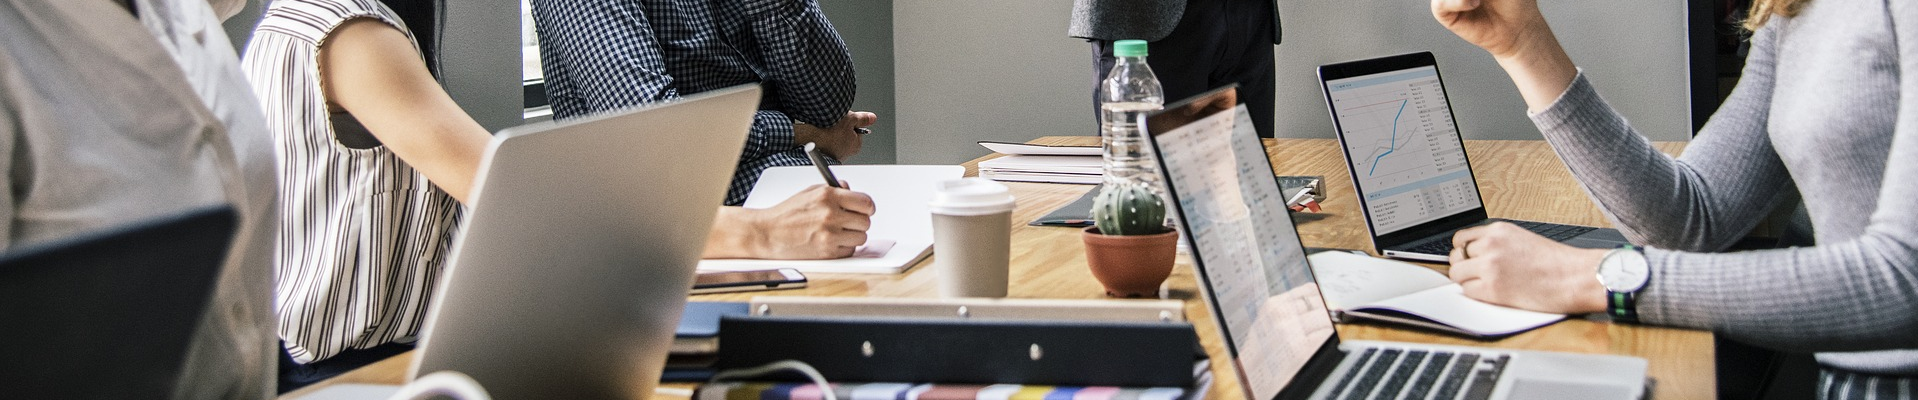
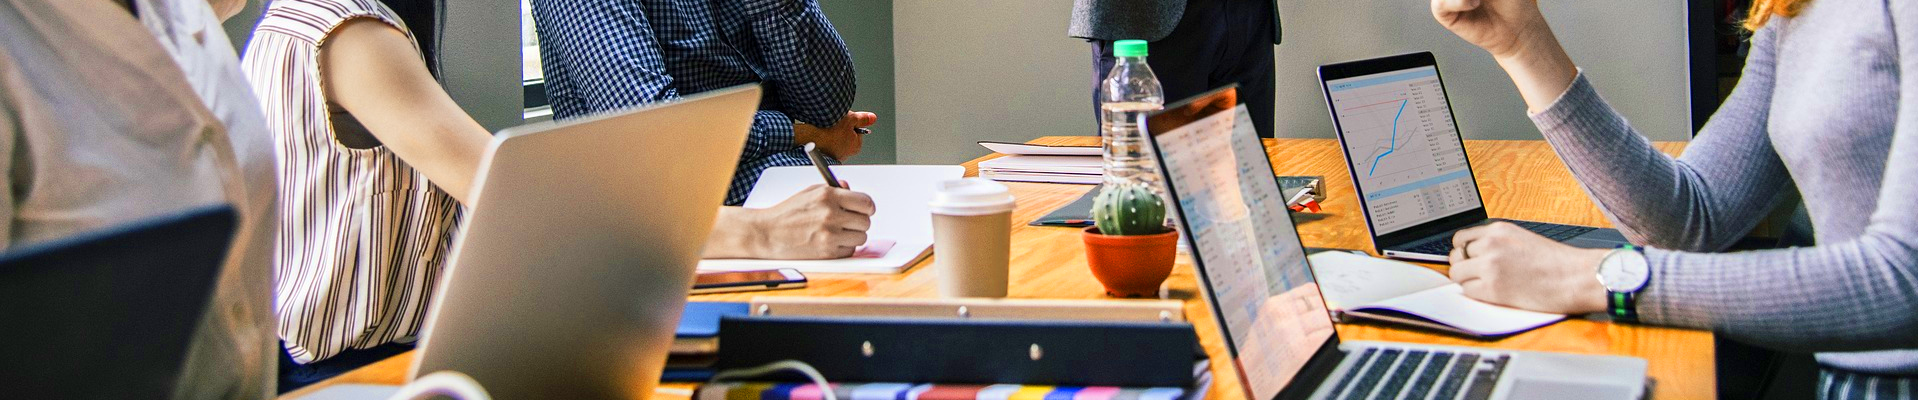
会社概要ページ上部修正・ぷろくま紹介ページ作成・ポリシーボタン修正・社員の声修正・画像修整

diff --git a/wp-content/themes/hokushinTheme_new/test.html b/wp-content/themes/hokushinTheme_new/test.html
@@ -132,24 +132,22 @@
                                 <img src="http://hokushinsystem.local/wp-content/uploads/2019/07/phi-img.png" alt="" width="70%"></div>
                         </div>
                     </article>
-                    <article id="home-pol" class="text-center mt-5 row justify-content-center">
-                        <a href="http://hokushinsystem.local/security-policy" class="hs-a m-1 col-12 col-md-5">セキュリティポリシー</a><a href="http://hokushinsystem.local/privacy-policy" class="hs-a m-1 col-12 col-md-5">プライバシーポリシー</a>
+                    <article id="home-pol" class="row text-center justify-content-center" style="margin-top: 20%">
+                        <a href="http://hokushinsystem.local/security-policy" class="hs-a m-1 col-8 col-md-4">セキュリティポリシー</a><a href="http://hokushinsystem.local/privacy-policy" class="hs-a m-1 col-8 col-md-4">プライバシーポリシー</a>
                     </article>
-
                     <a data-toggle="modal" data-target="#purokuma-modal" rel="noopener noreferrer">
                         <div id="footer-purokuma" style="cursor: grab"></div>
                     </a>
                 </div>
             </div>
-
-            <!-- modal -->
+            <!-- modal1 -->
             <div class="modal fade" id="purokuma-modal" tabindex="-1" role="dialog" aria-labelledby="modal01-label" style="display: none;" aria-hidden="true">
                 <div class="modal-dialog modal-dialog-centered" role="document">
                     <div class="modal-content" style="background-color: #fff">
                         <div class="modal-header hs-recruit-modal-header">
-                            <h3 class="modal-title" id="modal01-label font-weight-bold text-center">「ぷろくま」について</h3>
-                            <div id="footer-purokuma"></div>
+                            <div class="hs-phi-modal-purokuma"></div>
                             <button type="button" class="close" data-dismiss="modal" aria-label="Close"><span aria-hidden="true">×</span></button>
+
                         </div>
                         <div class="modal-body text-center">
                             <p class="m-0" style="color: #005c00">プログラミングをする「ぷろ」</p>
@@ -162,40 +160,23 @@
                                 <p class="m-0">「ぷろくま」は、</p>
                                 <p class="m-0">社員のいるところをいつも徘徊し、見守り続ける</p>
                                 <p class="m-0">ホクシンシステムのマスコットキャラクターです</p>
-                            </div>
 
+                            </div>
                             <div class="mt-4 mb-4">
-                                <a data-toggle="modal" data-target="#linestump-modal" rel="noopener noreferrer" class="hs-a" style="color: indigo; border-bottom: 1px indigo solid">「ぷろくま」LINEスタンプはこちら</a>
-                            </div>
-
+                                <a data-toggle="modal" data-target="#linestump-modal" rel="noopener noreferrer" class="hs-a" style="color: indigo;">「ぷろくま」LINEスタンプはこちら</a></div>
                         </div>
                     </div>
                 </div>
             </div>
-
-            <!-- modal -->
+            <!-- modal2 -->
             <div class="modal fade" id="linestump-modal" tabindex="-1" role="dialog" aria-labelledby="modal01-label" style="display: none;" aria-hidden="true">
-                <div class="modal-dialog modal-dialog-centered" role="document">
+                <div class="modal-dialog modal-dialog-centered modal-lg" role="document">
                     <div class="modal-content" style="background-color: #fff">
                         <div class="modal-header hs-recruit-modal-header">
-                            <h3 class="modal-title" id="modal01-label font-weight-bold text-center">「ぷろくま」について</h3>
-                            <div id="footer-purokuma"></div>
-                            <button type="button" class="close" data-dismiss="modal" aria-label="Close"><span aria-hidden="true">×</span></button>
-                        </div>
-                        <div class="modal-body text-center">
-                            <p class="m-0" style="color: #005c00">プログラミングをする「ぷろ」</p>
-                            <p class="m-0" style="color: #005c00">IT業界のプロフェッショナルの「ぷろ」</p>
-                            <p class="m-0" style="color: #005c00">北海道を象徴する動物である「くま」</p>
-                            <p class="m-0" style="color: #005c00">代表取締役　熊谷の「くま」</p>
-                            <p class="m-0" style="color: #005c00">プーさんのように愛される「くま」</p>
-
-                            <div class="mt-4">
-                                <p class="m-0">「ぷろくま」は、</p>
-                                <p class="m-0">社員のいるところをいつも徘徊し、見守り続ける</p>
-                                <p class="m-0">ホクシンシステムのマスコットキャラクターです</p>
-                            </div>
-
-
+                            <button type="button" class="close" data-dismiss="modal" aria-label="Close"><span aria-hidden="true">×</span></button></div>
+                        <div class="modal-body text-center mb-5">
+                            <!-- Image Map Generated by http://www.image-map.net/ -->
+                            <img src="http://hokushinsystem.local/wp-content/uploads/2019/08/line-stump.png" class="w-100">
 
                         </div>
                     </div>

diff --git a/wp-content/themes/hokushinTheme_new/test4.html b/wp-content/themes/hokushinTheme_new/test4.html
@@ -33,20 +33,7 @@
     <script src="jQuery_341.js"></script>
 
     <style>
-        .hs-ticker {
-            height: 40px;
-            overflow: hidden;
-            /* margin: 60px 0 0 35px; */
-            padding: 0;
-            list-style: none;
-            font-size: 25px;
-        }
-        
-        .hs-ticker li {
-            height: 60px;
-            padding: 5px;
-            margin: 0px 5px;
-        }
+
     </style>
 
     <script>
@@ -64,9 +51,7 @@
 
 <body>
 
-    <div class="page-content-image page-content-company"></div>
-
-
+    <div class="page-content-image page-content-company mb-4"></div>
     <section style="background: #5a3c96; color: #fff">
         <div style="margin: 0 auto;" class="row w-980 hs-about-news ">
             <h4 class="col-2 pt-1 mr-2">NEWS</h4>
@@ -80,8 +65,6 @@
             </ul>
         </div>
     </section>
-
-
     <!-- modal -->
     <div class="modal fade" id="about-modal" tabindex="-1" role="dialog" aria-labelledby="modal01-label" style="display: none;" aria-hidden="true">
         <div class="modal-dialog modal-dialog-centered" role="document">
@@ -89,6 +72,7 @@
                 <div class="modal-header hs-recruit-modal-header">
                     <h3 class="modal-title" id="modal01-label font-weight-bold text-center">NEWS</h3>
                     <button type="button" class="close" data-dismiss="modal" aria-label="Close"><span aria-hidden="true">×</span></button>
+
                 </div>
                 <div class="modal-body">
                     <ul>
@@ -97,35 +81,29 @@
                         <li class="pt-4" style="border-bottom: 1px #444 dotted">
                             2019.06.01　プライバシーマーク取得</li>
                         <li class="pt-4" style="border-bottom: 1px #444 dotted">
-                            2019.06.01　有料職業紹介業許可証が交付されました
-                        </li>
+                            2019.06.01　有料職業紹介業許可証が交付されました</li>
                         <li class="pt-4" style="border-bottom: 1px #444 dotted">
-                            2019.06.01　労働者派遣事業許可証が交付されました
-                        </li>
+                            2019.06.01　労働者派遣事業許可証が交付されました</li>
                         <li class="pt-4" style="border-bottom: 1px #444 dotted">
-                            2019.06.01　資本金を増額
-                        </li>
+                            2019.06.01　資本金を増額</li>
                         <li class="pt-4" style="border-bottom: 1px #444 dotted">
-                            2019.06.01　会社設立
-                        </li>
+                            2019.06.01　会社設立</li>
                     </ul>
                     <div id="footer-purokuma"></div>
                 </div>
             </div>
         </div>
     </div>
-
-
-    <div class="page-contenet content-out-box w-max">
+    <div class="page-contenet content-out-box w-max" style="padding-top: 2em;">
         <div class="content-inner-box w-980 row w-100" style="margin: 0 auto !important;">
-            <h1 class="page-main-title col-12 col-sm-3 m-0"><span class="page-title-en">Company</span><br>会社概要</h1>
-
+            <h1 class="page-main-title col-12 col-sm-3 m-0"><span class="page-title-en">Company</span> 会社概要
+            </h1>
             <!-- *勝手にpタグやbrタグが入らないようにする -->
             <div class="hs-recruit-message w-100 col-12 col-sm-8">
                 <h4>
                     開発者にとって最適の会社を</h4>
                 <h5 class="p-0 mt-3 mb-0">
-                    個性を活かし育てることで
+                    <p class="p-0 m-0" style="line-height: 1em">個性を活かし育てることで</p>
                     <p class="p-0 m-0">仲間とともに成長していくことを目指しています。</p>
                 </h5>
                 <p class="hs-recruit-message-p mt-3 mb-0　p-0" style="line-height: 2em;">
@@ -200,13 +178,11 @@
                         <div class="container" style="background-color: #f39e15">
                             <div class="row">
                                 <div class="col-md-7 col-12 hs-map m-0">
-                                    <a href="https://goo.gl/maps/QvAtSAN7RbQdo1Z27" target="_blank" rel="noopener noreferrer">
-                                        <img src="http://hokushinsystem.local/wp-content/uploads/2019/07/map.png" class="w-100 mb-4 mt-4 pl-3 pr-3">
-                                    </a>
-
-                                    <p class="hs-map-hover-mask text-white font-weight-bold">
-                                        Google Mapへ…
-
+                                    <a href="https://goo.gl/maps/QvAtSAN7RbQdo1Z27" target="_blank" rel="noopener noreferrer"><img src="http://hokushinsystem.local/wp-content/uploads/2019/07/map.png" class="w-100 mb-4 mt-4 pl-3 pr-3"></a>
+                                    <p class="hs-map-hover-mask text-white font-weight-bold d-none d-md-block">Google Mapへ…
+                                </div>
+                                <div class="d-block d-lg-none text-center w-100">
+                                    <p class="text-center mb-4" style="font-size: 0.7rem;">▶地図をタップするとGoogle Mapにとびます</p>
                                 </div>
                                 <div class="col-md-5 col-12">
                                     <div class="w-100 hs-map-p">
@@ -232,6 +208,8 @@
                     </article>
                 </div>
             </div>
+        </div>
+    </div>
 
 
 </body>

diff --git a/wp-content/themes/hokushinTheme_new/recruit.css b/wp-content/themes/hokushinTheme_new/recruit.css
@@ -310,8 +310,7 @@ img.emoji {
     }
     /* メイン */
     .hs-recruit-main-container1 {
-        width: 90%;
-        margin: 0 auto;
+        width: 100%;
     }
     /* .hs-recruit-main-container2 {
           position: relative;
@@ -500,7 +499,10 @@ img.emoji {
 }
 
 .hs-recruit-card-footer {
+    float: right;
+    text-align: right;
     font-size: 0.7rem;
+    margin-bottom: 1rem !important;
 }
 
 .hs-recruit-modal-header {
@@ -569,6 +571,17 @@ img.emoji {
     color: #444;
     border: 1px #444 solid;
     padding: 1em 3rem;
+}
+
+.hs-phi-modal-purokuma {
+    margin: auto;
+    margin-top: 34px;
+    width: 100%;
+    height: 160px;
+    background-image: url(images/purokuma.svg);
+    background-repeat: no-repeat;
+    background-position: center;
+    margin-left: 8%;
 }
 
 
@@ -829,7 +842,7 @@ figure:hover figcaption {
 .hs-map-hover-mask {
     position: absolute;
     width: 84%;
-    top: 13.2%;
+    top: 7.5%;
     bottom: 0;
     left: 8%;
     right: 0;
@@ -929,7 +942,7 @@ figure:hover figcaption {
 
 @media (min-width: 768px) {
     .hs-training-img {
-        width: 75%;
+        width: 60%;
     }
 }
 

diff --git a/wp-content/themes/hokushinTheme_new/hokushin_old.css b/wp-content/themes/hokushinTheme_new/hokushin_old.css
@@ -631,7 +631,8 @@ header .menu-head-container ul .current a {
 }
 
 .page-content-contact {
-    background-image: url(images/con_img.jpg);
+    /* background-image: url(images/con_img.jpg); */
+    background-image: url(images/contact.png);
 }
 
 .single-section {

diff --git a/wp-content/themes/hokushinTheme_new/page6.php b/wp-content/themes/hokushinTheme_new/page6.php
@@ -5,6 +5,7 @@
 
 <?php if(have_posts()): while(have_posts()): the_post();?>
 
+<?php remove_filter('the_content', 'wpautop'); ?>
 <?php the_content(); ?>
 
 <?php endwhile; endif; ?>
